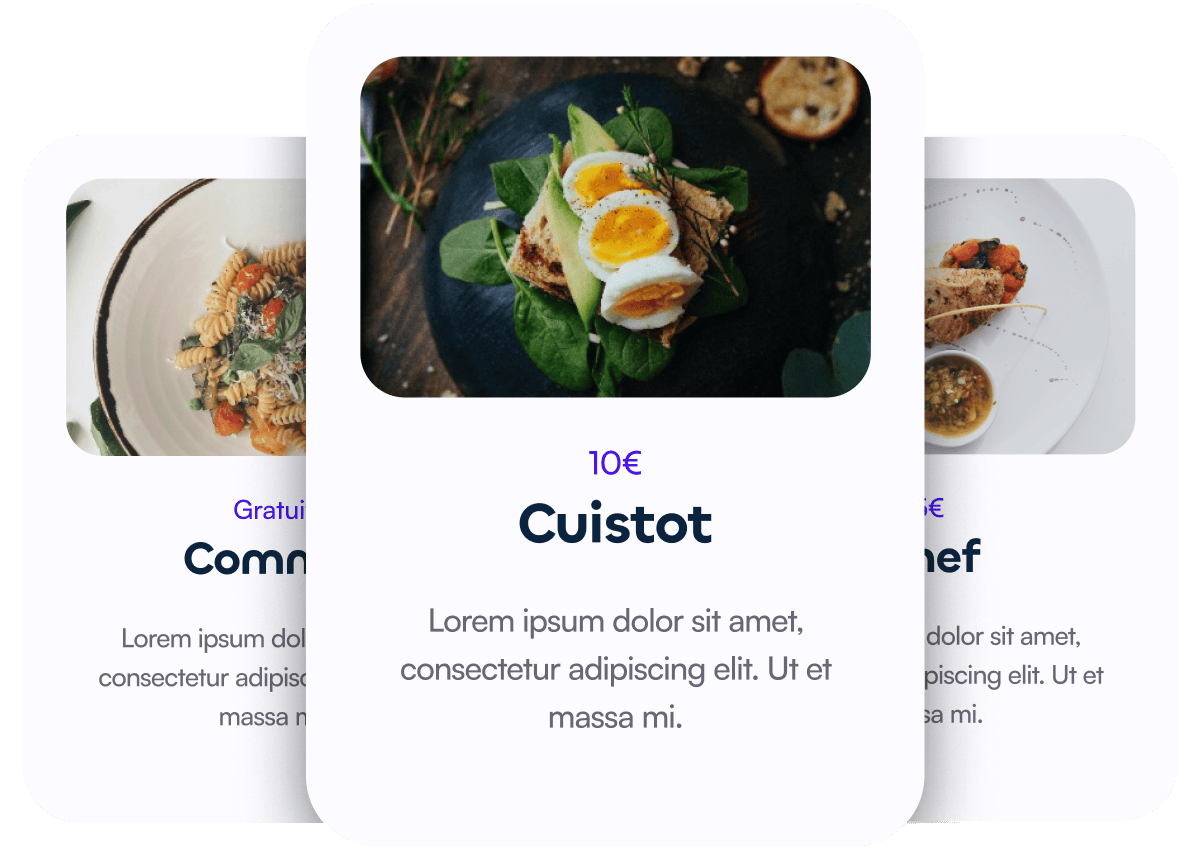
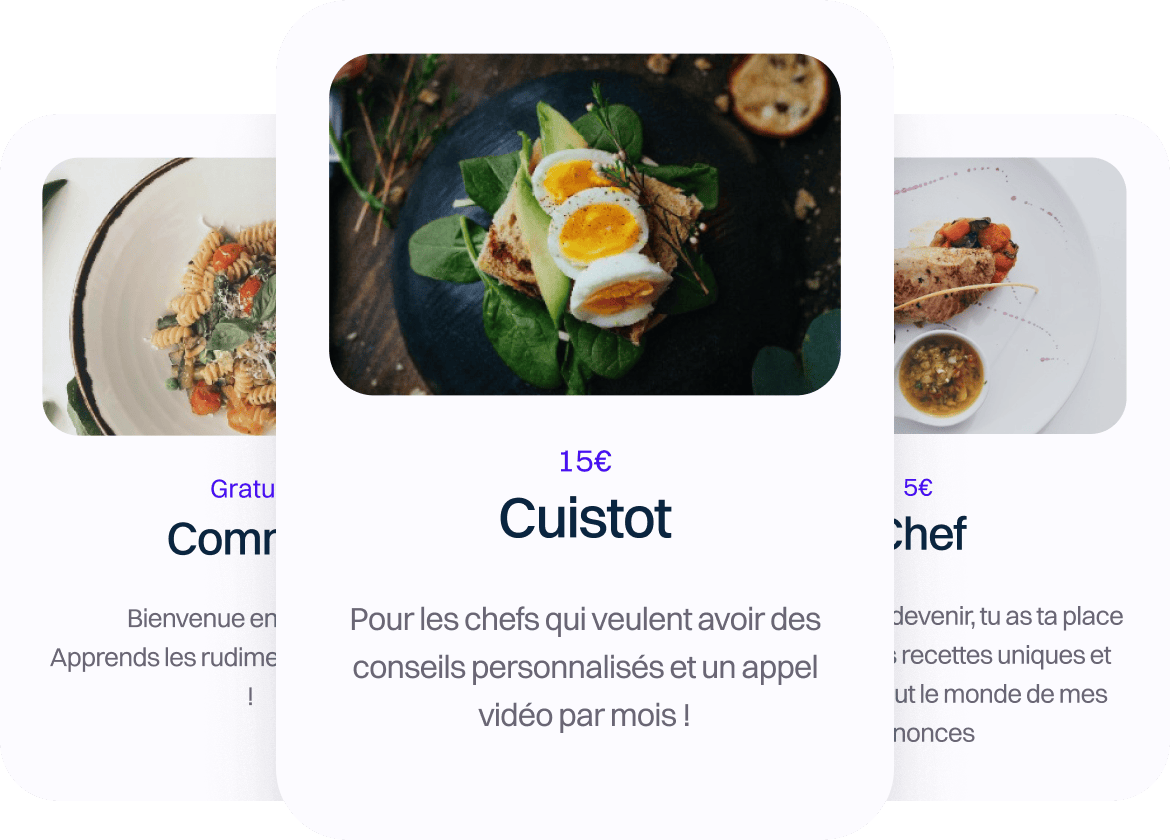
update content corrections from Grace

diff --git a/src/assets/scss/components/_components.titles.scss b/src/assets/scss/components/_components.titles.scss
@@ -86,14 +86,14 @@
 }
 
 .c-h5 {
-  font-size: calc(18 / 16 * 1rem);
-  margin-bottom: calc(6 / 16 * 1rem);
+  font-size: calc(22 / 16 * 1rem);
+  margin-bottom: calc(8 / 16 * 1rem);
   color: var(--color-secondary);
   font-family: var(--fontstack-main);
   font-weight: 400;
 
   @include breakpoint(large) {
-    font-size: calc(22 / 16 * 1rem);
+    font-size: calc(26 / 16 * 1rem);
   }
 }
 

diff --git a/src/assets/scss/base/_base.body.scss b/src/assets/scss/base/_base.body.scss
@@ -7,12 +7,12 @@ body {
   padding: 0;
   background-color: var(--color-white);
   color: var(--color-gray2);
-  font-size: 1rem;
+  font-size: 1.2rem;
   overflow-x: hidden;
   text-wrap: balance;
 
   @include breakpoint(medium) {
-    font-size: calc(18 / 16 * 1rem);
+    font-size: calc(20 / 16 * 1rem);
   }
 }
 

diff --git a/src/assets/scss/components/_components.vertical-section.scss b/src/assets/scss/components/_components.vertical-section.scss
@@ -17,10 +17,12 @@
 
     p{
         text-align: center;
+        text-wrap: pretty;
     }
     
     h2, h3, h4, h5{
         text-align: center;
+        text-wrap: pretty;
     }
 }
 
